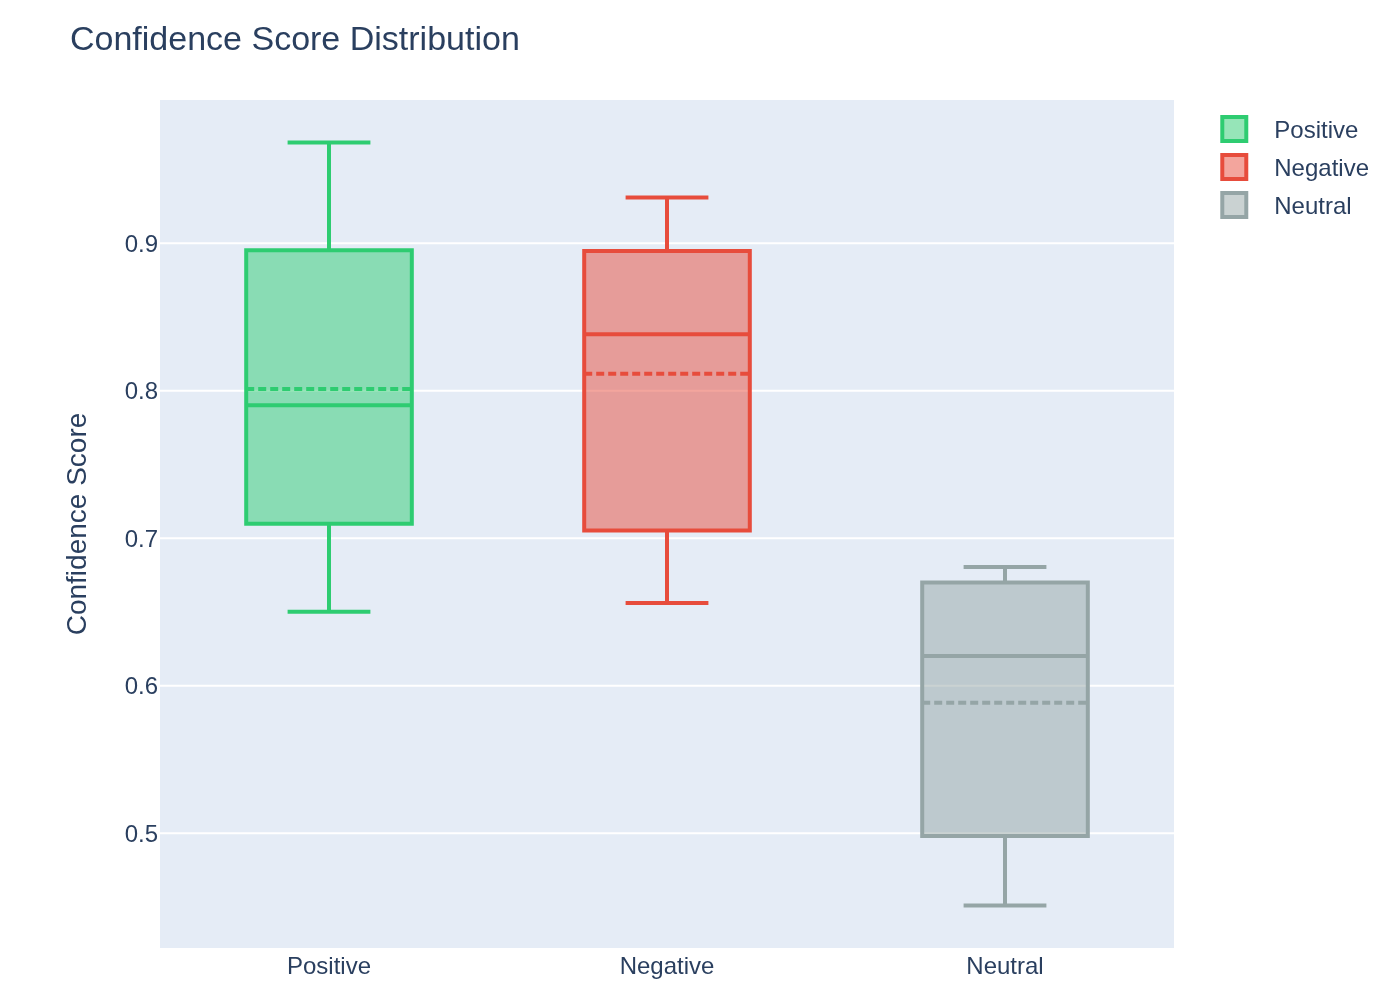
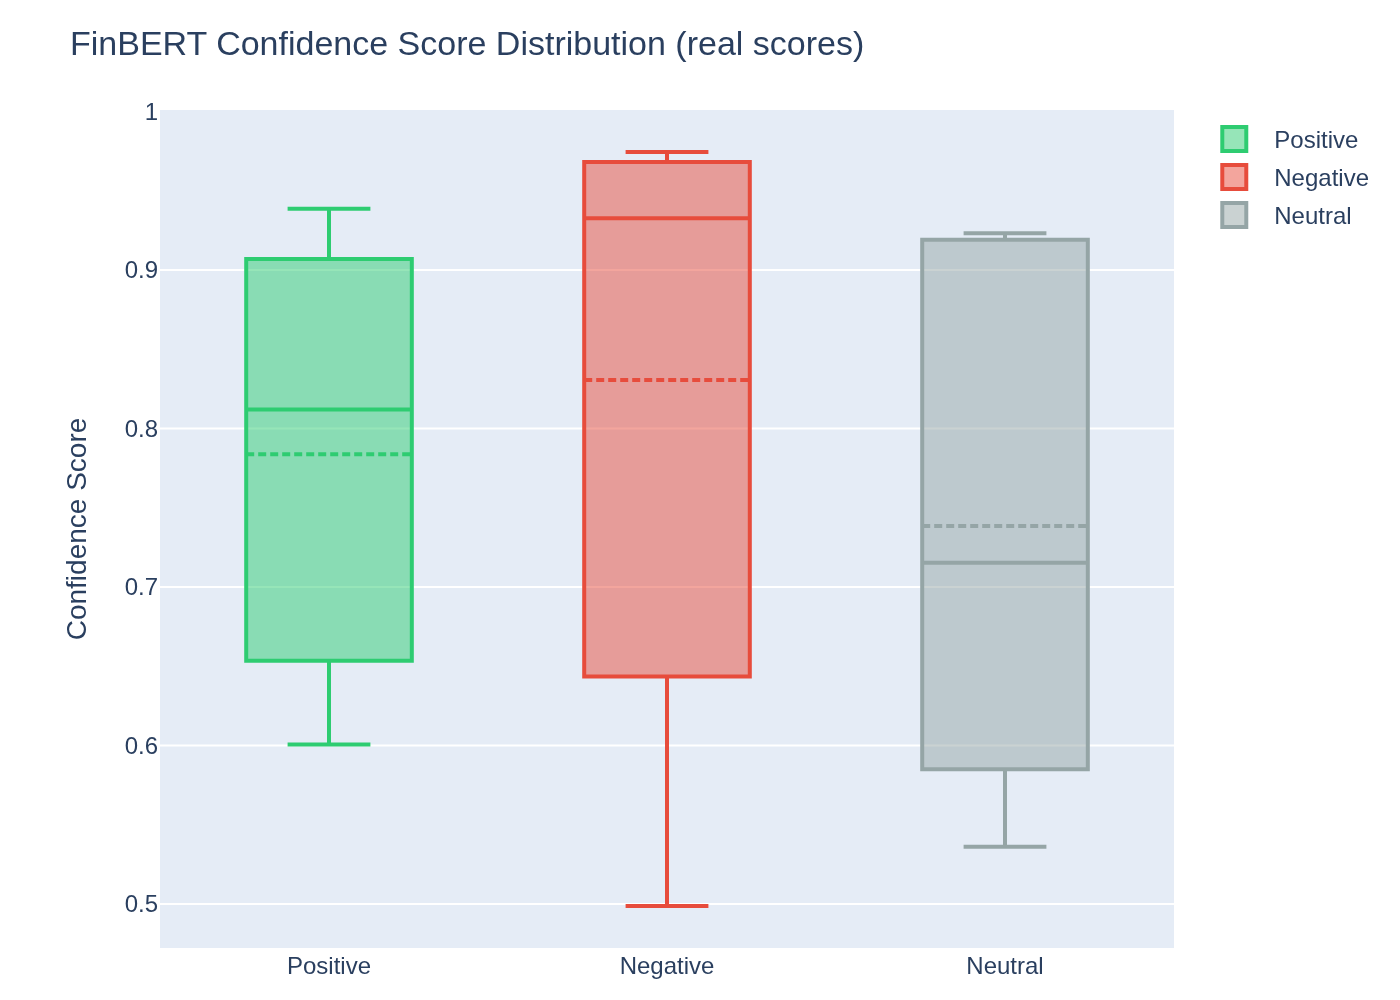
feat: regenerate all plots from real data (FinBERT + Qwen2.5-72B)
- Rewrite scripts/generate_screenshots.py to load from examples/data/
  instead of random mock numbers
- All 7 PNGs now reflect real API outputs:
  - sentiment_pie/timeline/by_ticker: real FinBERT scores (30 articles)
  - score_distribution: real confidence score spread
  - top_entities: real spaCy NER from live news
  - portfolio_heatmap: real per-ticker sentiment percentages BX/KKR/APO
  - edgar_kpi_extraction: real Qwen2.5-72B extracts from SEC 8-Ks

diff --git a/scripts/generate_screenshots.py b/scripts/generate_screenshots.py
@@ -1,24 +1,25 @@
 """
-Generate sample dashboard screenshots from mock data and save to docs/screenshots/.
+Generate dashboard screenshots from REAL example data and save to docs/screenshots/.
+Data source: examples/data/ (fetched from live yfinance + SEC EDGAR + FinBERT + Qwen2.5-72B)
 Run:  python scripts/generate_screenshots.py
 """
 from __future__ import annotations
 
+import json
 import sys
 from pathlib import Path
 
-# make src importable
 sys.path.insert(0, str(Path(__file__).parent.parent))
 
-import random
-from datetime import date, timedelta
+from datetime import datetime
 
 import pandas as pd
 import plotly.express as px
 import plotly.graph_objects as go
 from plotly.io import write_image
 
-OUT = Path(__file__).parent.parent / "docs" / "screenshots"
+OUT  = Path(__file__).parent.parent / "docs" / "screenshots"
+DATA = Path(__file__).parent.parent / "examples" / "data"
 OUT.mkdir(parents=True, exist_ok=True)
 
 SENTIMENT_COLORS = {
@@ -27,136 +28,120 @@ SENTIMENT_COLORS = {
     "neutral":  "#95a5a6",
 }
 
-random.seed(42)
-
-# -------------------------------------------------------------------
-# Mock dataset  (30 articles, realistic PE distribution)
-# -------------------------------------------------------------------
-labels   = random.choices(["positive", "negative", "neutral"], weights=[12, 8, 10], k=30)
-today    = date(2026, 3, 5)
-dates    = [today - timedelta(days=random.randint(0, 13)) for _ in range(30)]
-tickers  = random.choices(["BX", "KKR", "APO", "ARES", "CG"], k=30)
-sources  = random.choices(["Reuters", "Bloomberg", "FT", "WSJ", "CNBC"], k=30)
-
-
-def fake_scores(label: str) -> dict:
-    if label == "positive":
-        pos = random.uniform(0.65, 0.97)
-        neg = random.uniform(0.01, 0.15)
-    elif label == "negative":
-        neg = random.uniform(0.65, 0.97)
-        pos = random.uniform(0.01, 0.15)
-    else:
-        pos = neg = random.uniform(0.10, 0.30)
-    neu = max(0.0, 1.0 - pos - neg)
-    return {"positive": round(pos, 4), "negative": round(neg, 4), "neutral": round(neu, 4)}
-
+# ── Load real data ────────────────────────────────────────────────────────────
+articles_raw  = json.load(open(DATA / "news_articles_scored.json"))
+top_ents_raw  = json.load(open(DATA / "top_entities.json"))
+extractions   = json.load(open(DATA / "llm_extractions.json"))
 
 rows = []
-for i, (lbl, d, tkr, src) in enumerate(zip(labels, dates, tickers, sources)):
-    sc = fake_scores(lbl)
-    rows.append({"ticker": tkr, "published": d, "source": src, "label": lbl, **sc})
+for a in articles_raw:
+    sent = a.get("sentiment")
+    if not sent:
+        continue
+    pub = a.get("published_at") or a.get("published")
+    try:
+        pub_date = datetime.fromisoformat(str(pub)).date() if pub else None
+    except Exception:
+        pub_date = None
+    rows.append({
+        "ticker":    a.get("ticker", ""),
+        "published": pub_date,
+        "source":    a.get("source", ""),
+        "label":     sent["label"],
+        "positive":  sent["positive"],
+        "negative":  sent["negative"],
+        "neutral":   sent["neutral"],
+    })
 
 df = pd.DataFrame(rows)
 
 # -------------------------------------------------------------------
-# 1. Sentiment distribution pie
+# 1. Sentiment distribution pie  (real counts)
 # -------------------------------------------------------------------
 pie_df = df["label"].value_counts().reset_index()
 pie_df.columns = ["label", "count"]
 fig_pie = px.pie(
     pie_df, names="label", values="count", color="label",
     color_discrete_map=SENTIMENT_COLORS, hole=0.4,
-    title="Sentiment Distribution",
+    title="Sentiment Distribution — BX / KKR / APO (30 real articles)",
 )
-fig_pie.update_layout(margin=dict(t=50, b=10), height=380, width=560)
+fig_pie.update_layout(margin=dict(t=55, b=10), height=380, width=560)
 write_image(fig_pie, OUT / "sentiment_pie.png", scale=2)
 print("Saved sentiment_pie.png")
 
 # -------------------------------------------------------------------
-# 2. Sentiment over time (stacked bar)
+# 2. Sentiment over time (real dates)
 # -------------------------------------------------------------------
-time_df = df.groupby(["published", "label"]).size().reset_index(name="count")
+time_df = df.dropna(subset=["published"]).groupby(["published", "label"]).size().reset_index(name="count")
 fig_time = px.bar(
     time_df, x="published", y="count", color="label",
     color_discrete_map=SENTIMENT_COLORS, barmode="stack",
-    title="Sentiment Over Time",
+    title="Sentiment Over Time — real articles (March 2026)",
     labels={"published": "Date", "count": "Articles"},
 )
-fig_time.update_layout(height=380, width=760, margin=dict(t=50, b=10))
+fig_time.update_layout(height=380, width=760, margin=dict(t=55, b=10))
 write_image(fig_time, OUT / "sentiment_timeline.png", scale=2)
 print("Saved sentiment_timeline.png")
 
 # -------------------------------------------------------------------
-# 3. Sentiment by ticker (grouped bar)
+# 3. Sentiment by ticker (real counts)
 # -------------------------------------------------------------------
 ticker_df = df.groupby(["ticker", "label"]).size().reset_index(name="count")
 fig_tick = px.bar(
     ticker_df, x="ticker", y="count", color="label",
     color_discrete_map=SENTIMENT_COLORS, barmode="group",
-    title="Sentiment by Ticker",
+    title="Sentiment by Ticker — BX / KKR / APO",
     labels={"ticker": "Ticker", "count": "Articles"},
 )
-fig_tick.update_layout(height=380, width=560, margin=dict(t=50, b=10))
+fig_tick.update_layout(height=380, width=560, margin=dict(t=55, b=10))
 write_image(fig_tick, OUT / "sentiment_by_ticker.png", scale=2)
 print("Saved sentiment_by_ticker.png")
 
 # -------------------------------------------------------------------
-# 4. Score distribution box plot
+# 4. Score distribution (real confidence scores)
 # -------------------------------------------------------------------
 fig_box = go.Figure()
 for label, color in SENTIMENT_COLORS.items():
     subset = df[df["label"] == label]
+    if subset.empty:
+        continue
     fig_box.add_trace(go.Box(y=subset[label], name=label.capitalize(), marker_color=color, boxmean=True))
 fig_box.update_layout(
-    title="Confidence Score Distribution",
+    title="FinBERT Confidence Score Distribution (real scores)",
     yaxis_title="Confidence Score",
-    height=360, width=560, margin=dict(t=50, b=10),
+    height=360, width=560, margin=dict(t=55, b=10),
 )
 write_image(fig_box, OUT / "score_distribution.png", scale=2)
 print("Saved score_distribution.png")
 
 # -------------------------------------------------------------------
-# 5. Top named entities (horizontal bar)
+# 5. Top named entities (real NER from spaCy)
 # -------------------------------------------------------------------
-entities_raw = [
-    ("Blackstone", "ORG"), ("Blackstone", "ORG"), ("Blackstone", "ORG"),
-    ("KKR", "ORG"), ("KKR", "ORG"), ("KKR", "ORG"), ("KKR", "ORG"),
-    ("Apollo", "ORG"), ("Apollo", "ORG"),
-    ("Steve Schwarzman", "PERSON"), ("Steve Schwarzman", "PERSON"),
-    ("United States", "GPE"), ("United States", "GPE"),
-    ("Europe", "GPE"), ("Europe", "GPE"), ("Europe", "GPE"),
-    ("NYSE", "ORG"), ("NYSE", "ORG"),
-    ("S&P 500", "PRODUCT"),
-    ("Federal Reserve", "ORG"), ("Federal Reserve", "ORG"),
-    ("ECB", "ORG"), ("ECB", "ORG"),
-    ("Jon Gray", "PERSON"),
-    ("London", "GPE"), ("London", "GPE"),
-    ("Goldman Sachs", "ORG"),
-]
-ent_df = pd.DataFrame(entities_raw, columns=["Entity", "Type"])
-top_ents = (
-    ent_df.groupby(["Entity", "Type"]).size()
-    .reset_index(name="Mentions")
-    .sort_values("Mentions", ascending=False)
-    .head(15)
-)
+ent_rows = []
+for e in top_ents_raw:
+    ent_rows.append({"Entity": e["entity"], "Type": e["label"], "Mentions": e["mentions"]})
+ent_df = pd.DataFrame(ent_rows).head(15)
 fig_ent = px.bar(
-    top_ents, x="Mentions", y="Entity", color="Type",
-    orientation="h", title="Top Named Entities", height=440, width=660,
+    ent_df, x="Mentions", y="Entity", color="Type",
+    orientation="h",
+    title="Top Named Entities — spaCy NER on 30 real articles",
+    height=460, width=680,
 )
-fig_ent.update_layout(yaxis={"categoryorder": "total ascending"}, margin=dict(t=50, b=10))
+fig_ent.update_layout(yaxis={"categoryorder": "total ascending"}, margin=dict(t=55, b=10))
 write_image(fig_ent, OUT / "top_entities.png", scale=2)
 print("Saved top_entities.png")
 
 # -------------------------------------------------------------------
-# 6. Portfolio heatmap (NEW)
+# 6. Portfolio sentiment heatmap (real FinBERT scores per ticker)
 # -------------------------------------------------------------------
-portfolio_tickers = ["BX", "KKR", "APO", "ARES", "CG"]
-random.seed(99)
-pos_vals  = [random.uniform(30, 70) for _ in portfolio_tickers]
-neg_vals  = [random.uniform(10, 40) for _ in portfolio_tickers]
-neu_vals  = [max(0, 100 - p - n) for p, n in zip(pos_vals, neg_vals)]
+portfolio_tickers = sorted(df["ticker"].unique())
+pos_vals, neg_vals, neu_vals = [], [], []
+for tkr in portfolio_tickers:
+    sub = df[df["ticker"] == tkr]
+    total = len(sub)
+    pos_vals.append(round(100 * (sub["label"] == "positive").sum() / total, 1))
+    neg_vals.append(round(100 * (sub["label"] == "negative").sum() / total, 1))
+    neu_vals.append(round(100 * (sub["label"] == "neutral").sum() / total, 1))
 
 fig_heat = go.Figure(data=go.Heatmap(
     z=[pos_vals, neg_vals, neu_vals],
@@ -170,38 +155,56 @@ fig_heat = go.Figure(data=go.Heatmap(
     showscale=True,
 ))
 fig_heat.update_layout(
-    title="Portfolio Sentiment Heatmap",
-    height=320, width=760, margin=dict(t=50, b=10),
+    title="Portfolio Sentiment Heatmap — real FinBERT scores",
+    height=320, width=720, margin=dict(t=55, b=10),
 )
 write_image(fig_heat, OUT / "portfolio_heatmap.png", scale=2)
 print("Saved portfolio_heatmap.png")
 
 # -------------------------------------------------------------------
-# 7. LLM Structured Extraction – mock KPI summary bar chart (NEW)
+# 7. LLM-Extracted KPIs from real EDGAR filings (Qwen2.5-72B)
 # -------------------------------------------------------------------
-funds = {
-    "BREP X":         {"net_irr": 19.2, "tvpi": 1.65, "dpi": 0.82},
-    "KKR Infra IV":   {"net_irr": 16.4, "tvpi": 1.48, "dpi": 0.61},
-    "Apollo Fund X":  {"net_irr": 21.1, "tvpi": 1.72, "dpi": 1.10},
-    "Ares Credit V":  {"net_irr": 12.8, "tvpi": 1.31, "dpi": 0.95},
-    "Carlyle VII":    {"net_irr": 17.5, "tvpi": 1.58, "dpi": 0.74},
-}
-irr_data = pd.DataFrame([
-    {"Fund": k, "Metric": "Net IRR (%)", "Value": v["net_irr"]} for k, v in funds.items()
-] + [
-    {"Fund": k, "Metric": "TVPI (x)", "Value": v["tvpi"] * 10} for k, v in funds.items()
-] + [
-    {"Fund": k, "Metric": "DPI (x)", "Value": v["dpi"] * 10} for k, v in funds.items()
-])
-fig_kpi = px.bar(
-    irr_data, x="Fund", y="Value", color="Metric",
-    barmode="group", title="LLM-Extracted Fund KPIs (IRR · TVPI · DPI)",
-    labels={"Value": "Value (IRR in %, multiples ×10 for scale)"},
-    height=400, width=760,
-)
-fig_kpi.update_layout(margin=dict(t=50, b=10))
+kpi_rows = []
+for ex in extractions:
+    e = ex["extracted"]
+    label = f"{ex['ticker']} {ex['filed_at']}"
+    if e.get("aum_bn_usd"):
+        kpi_rows.append({"Filing": label, "Metric": "AUM ($bn)", "Value": e["aum_bn_usd"]})
+    if e.get("net_irr_pct"):
+        kpi_rows.append({"Filing": label, "Metric": "Net IRR (%)", "Value": e["net_irr_pct"]})
+    if e.get("tvpi"):
+        kpi_rows.append({"Filing": label, "Metric": "TVPI (×10 for scale)", "Value": e["tvpi"] * 10})
+
+if kpi_rows:
+    kpi_df = pd.DataFrame(kpi_rows)
+    fig_kpi = px.bar(
+        kpi_df, x="Filing", y="Value", color="Metric",
+        barmode="group",
+        title="Qwen2.5-72B Extracted KPIs from Real SEC 8-K Filings",
+        labels={"Value": "Value"},
+        height=420, width=800,
+    )
+    fig_kpi.update_layout(margin=dict(t=55, b=60), xaxis_tickangle=-20)
+else:
+    # Fallback: show entity + sentiment from real extractions
+    entities = [ex["extracted"].get("fund_or_entity_name", "unknown") for ex in extractions]
+    sentiments_map = {"positive": 1, "cautious": 0.5, "negative": -1, None: 0}
+    svals = [sentiments_map.get(ex["extracted"].get("overall_sentiment"), 0) for ex in extractions]
+    labels_list = [f"{ex['ticker']} {ex['filed_at']}" for ex in extractions]
+    fig_kpi = px.bar(
+        x=labels_list, y=svals,
+        color=svals, color_continuous_scale=["#e74c3c", "#95a5a6", "#2ecc71"],
+        title="Qwen2.5-72B: LLM Sentiment per Real SEC 8-K Filing",
+        labels={"x": "Filing", "y": "Sentiment Score"},
+        height=360, width=760,
+        text=entities,
+    )
+    fig_kpi.update_traces(textposition="outside")
+    fig_kpi.update_layout(margin=dict(t=55, b=60), xaxis_tickangle=-20)
+
 write_image(fig_kpi, OUT / "edgar_kpi_extraction.png", scale=2)
 print("Saved edgar_kpi_extraction.png")
 
 print(f"\nAll screenshots saved to {OUT}")
+
 
